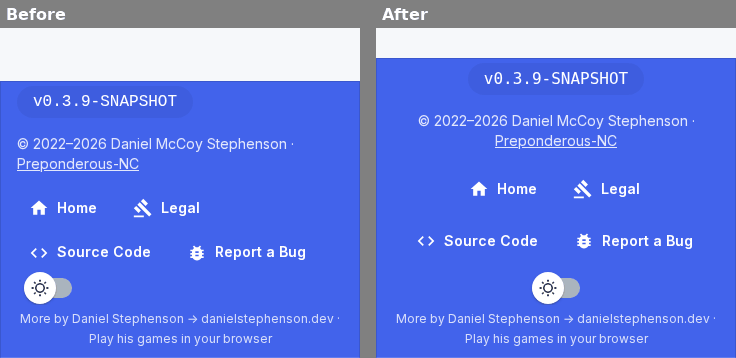
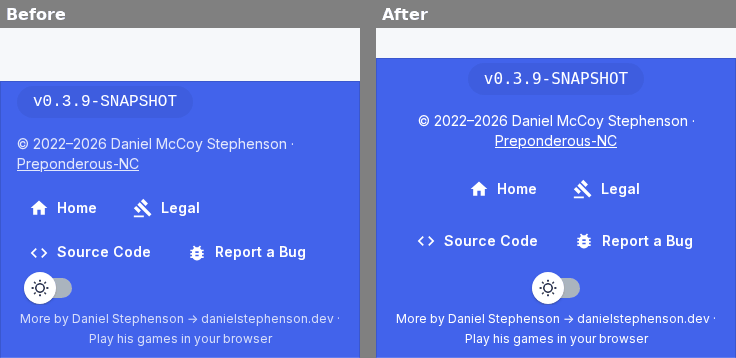
fix(layout): top bar fits 360px with the 44px menu button; footer centres up to lg
With the coarse-pointer 44px menu button and the real web fonts, the top
bar still wrapped at 360px by a pixel; the wordmark's right margin, kept
for the inline links that phones hide, is dropped below md. The footer
does not fit one row until about 1200px, so its rows are centred below lg
instead of md, and from lg up the colour-mode switch stays on the right.

drafted by Claude on behalf of Daniel Stephenson

Claude-Session: https://claude.ai/code/session_01LYNeun4MTdQwEKgQzkS6Dd

diff --git a/components/BottomBar.tsx b/components/BottomBar.tsx
@@ -63,7 +63,7 @@ const VersionNumber: React.FC<{ version: string }> = ({version}) => (
 const CopyrightNotice: React.FC = () => (
     // Full-strength white: dimmed to 85% it fell to 4.1:1 on the light-mode
     // blue bar, under WCAG AA's 4.5:1 for text this size.
-    <Typography variant="body2" color="inherit" component="div" sx={{textAlign: {xs: 'center', md: 'left'}}}>
+    <Typography variant="body2" color="inherit" component="div" sx={{textAlign: {xs: 'center', lg: 'left'}}}>
         {formatCopyright()}
         {' · '}
         <Link component={NextLink} href="/legal" color="inherit" underline="always">
@@ -83,11 +83,12 @@ const BottomBar: React.FC<BottomBarProps> = ({version}) => {
 
     return (
         <AppBar position="static" component="footer" sx={(theme) => bottomAppBarStyle(theme)}>
-            {/* Below md the rows wrap, and left-aligned they left the
+            {/* Below lg the rows wrap, and left-aligned they left the
                 colour-mode switch stranded under the links while the credit
-                line beneath sat centred; there every row is centred instead. */}
-            <Toolbar sx={(theme) => ({...toolbarStyle(theme), justifyContent: {xs: 'center', md: 'space-between'}, rowGap: 1})}>
-                <Box sx={(theme) => ({...flexContainerStyle(theme), justifyContent: {xs: 'center', md: 'flex-start'}})}>
+                line beneath sat centred; there every row is centred instead.
+                From lg up the switch keeps to the right of the row. */}
+            <Toolbar sx={(theme) => ({...toolbarStyle(theme), justifyContent: {xs: 'center', lg: 'space-between'}, flexWrap: {xs: 'wrap', lg: 'nowrap'}, rowGap: 1})}>
+                <Box sx={(theme) => ({...flexContainerStyle(theme), justifyContent: {xs: 'center', lg: 'flex-start'}})}>
                     <Box sx={(theme) => ({...flexContainerStyle(theme, {gap: 2}), justifyContent: 'center'})}>
                         <VersionNumber version={version}/>
                         <CopyrightNotice/>

diff --git a/styles/styles.ts b/styles/styles.ts
@@ -80,9 +80,10 @@ export const navButtonStyle = (theme: Theme) => ({
  */
 export const brandNameStyle = (theme: Theme) => ({
     display: 'inline',
-    marginRight: theme.spacing(2),
-    // At the h6 size the wordmark, the colour-mode switch and the menu button
-    // did not fit one row on a 360px phone, and the bar wrapped onto a second.
+    // At the h6 size, and with the gap kept for the inline links that phones
+    // hide, the wordmark, the colour-mode switch and the 44px menu button did
+    // not fit one row on a 360px phone, and the bar wrapped onto a second.
+    marginRight: {xs: 0, md: theme.spacing(2)},
     '& .MuiTypography-root': {fontSize: {xs: '1.05rem', sm: '1.25rem'}},
     fontWeight: 700,
     letterSpacing: '-0.01em',

diff --git a/__tests__/styles.test.ts b/__tests__/styles.test.ts
@@ -116,6 +116,8 @@ describe('layout overflow guards', () => {
         const brand = brandNameStyle(theme) as StyleObject;
         const fontSize = (brand['& .MuiTypography-root'] as StyleObject).fontSize as { xs: string; sm: string };
         expect(parseFloat(fontSize.xs)).toBeLessThan(parseFloat(fontSize.sm));
+        // The gap before the inline links is dropped where they are hidden.
+        expect((brand.marginRight as { xs: number }).xs).toBe(0);
     });
 });
 

diff --git a/CHANGELOG.md b/CHANGELOG.md
@@ -14,7 +14,7 @@ The format is based on [Keep a Changelog](https://keepachangelog.com/en/1.0.0/).
 ### Changed
 
 - **Project links and names are brought up to date.** GitHub links for Apex, Beyond Nations, Ophidian, Roam and Viron now use each repository's current name instead of relying on GitHub's rename redirects, and Apex and Beyond Nations are titled by their current names ("Apex", "Beyond Nations"). Apex, Beyond Nations, Ophidian and env-lib-cpp now link to their live browser builds on danielstephenson.dev's arcade. The descriptions of Beyond Nations, Roam and Viron now match their READMEs: Beyond Nations runs on the Strata engine and in the browser, Roam is about gathering, farming and building, and Viron is a REST spatial simulation service.
-- **Phone layout.** On a touch screen (a coarse pointer) buttons, icon buttons and the sort toggle are at least 44px tall, and clickable chips (the home page's filters, the `/projects` category links) are 36px with an invisible hit area reaching 44px; a mouse keeps the compact sizes (`pages/_app.tsx`). The top bar's wordmark is a step smaller below the `sm` breakpoint, so the wordmark, the colour-mode switch and the menu button fit one row on a 360px phone instead of wrapping onto two. Below `md` the footer's rows are centred, so the colour-mode switch no longer sits stranded under the links. A project card's technology and status chips wrap onto a second line instead of being cut off at the card edge (on `/projects`, the status chip of usd-asset-gate and usd-synth-data was hidden at 1280px).
+- **Phone layout.** On a touch screen (a coarse pointer) buttons, icon buttons and the sort toggle are at least 44px tall, and clickable chips (the home page's filters, the `/projects` category links) are 36px with an invisible hit area reaching 44px; a mouse keeps the compact sizes (`pages/_app.tsx`). The top bar's wordmark is a step smaller below the `sm` breakpoint, so the wordmark, the colour-mode switch and the menu button fit one row on a 360px phone instead of wrapping onto two. Below `lg`, where the footer does not fit one row, its rows are centred, so the colour-mode switch no longer sits stranded under the links. A project card's technology and status chips wrap onto a second line instead of being cut off at the card edge (on `/projects`, the status chip of usd-asset-gate and usd-synth-data was hidden at 1280px).
 
 ### Fixed
 
